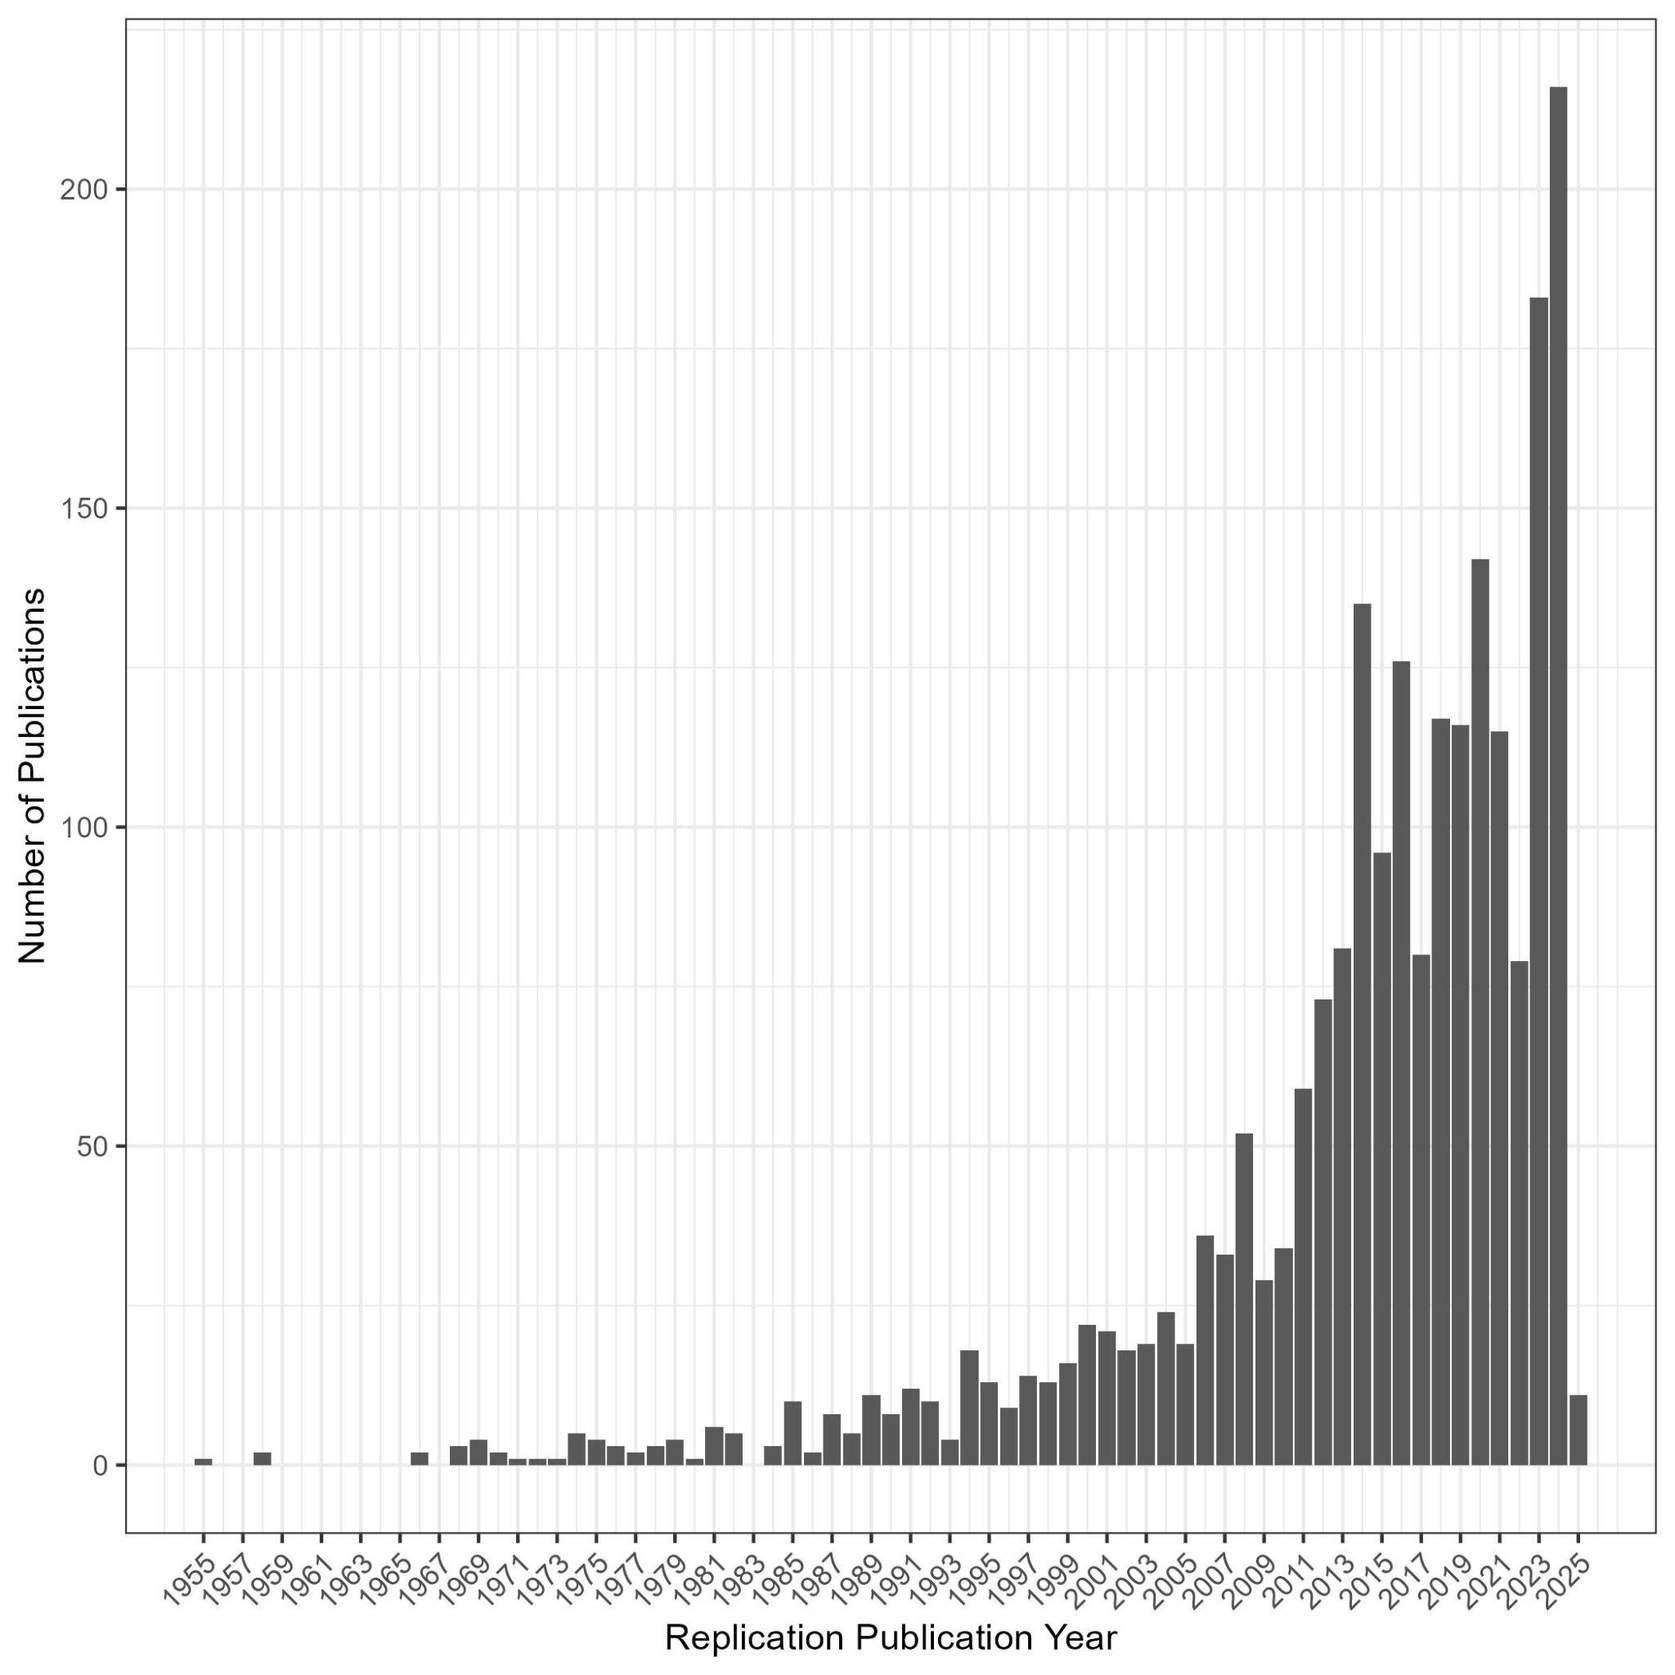
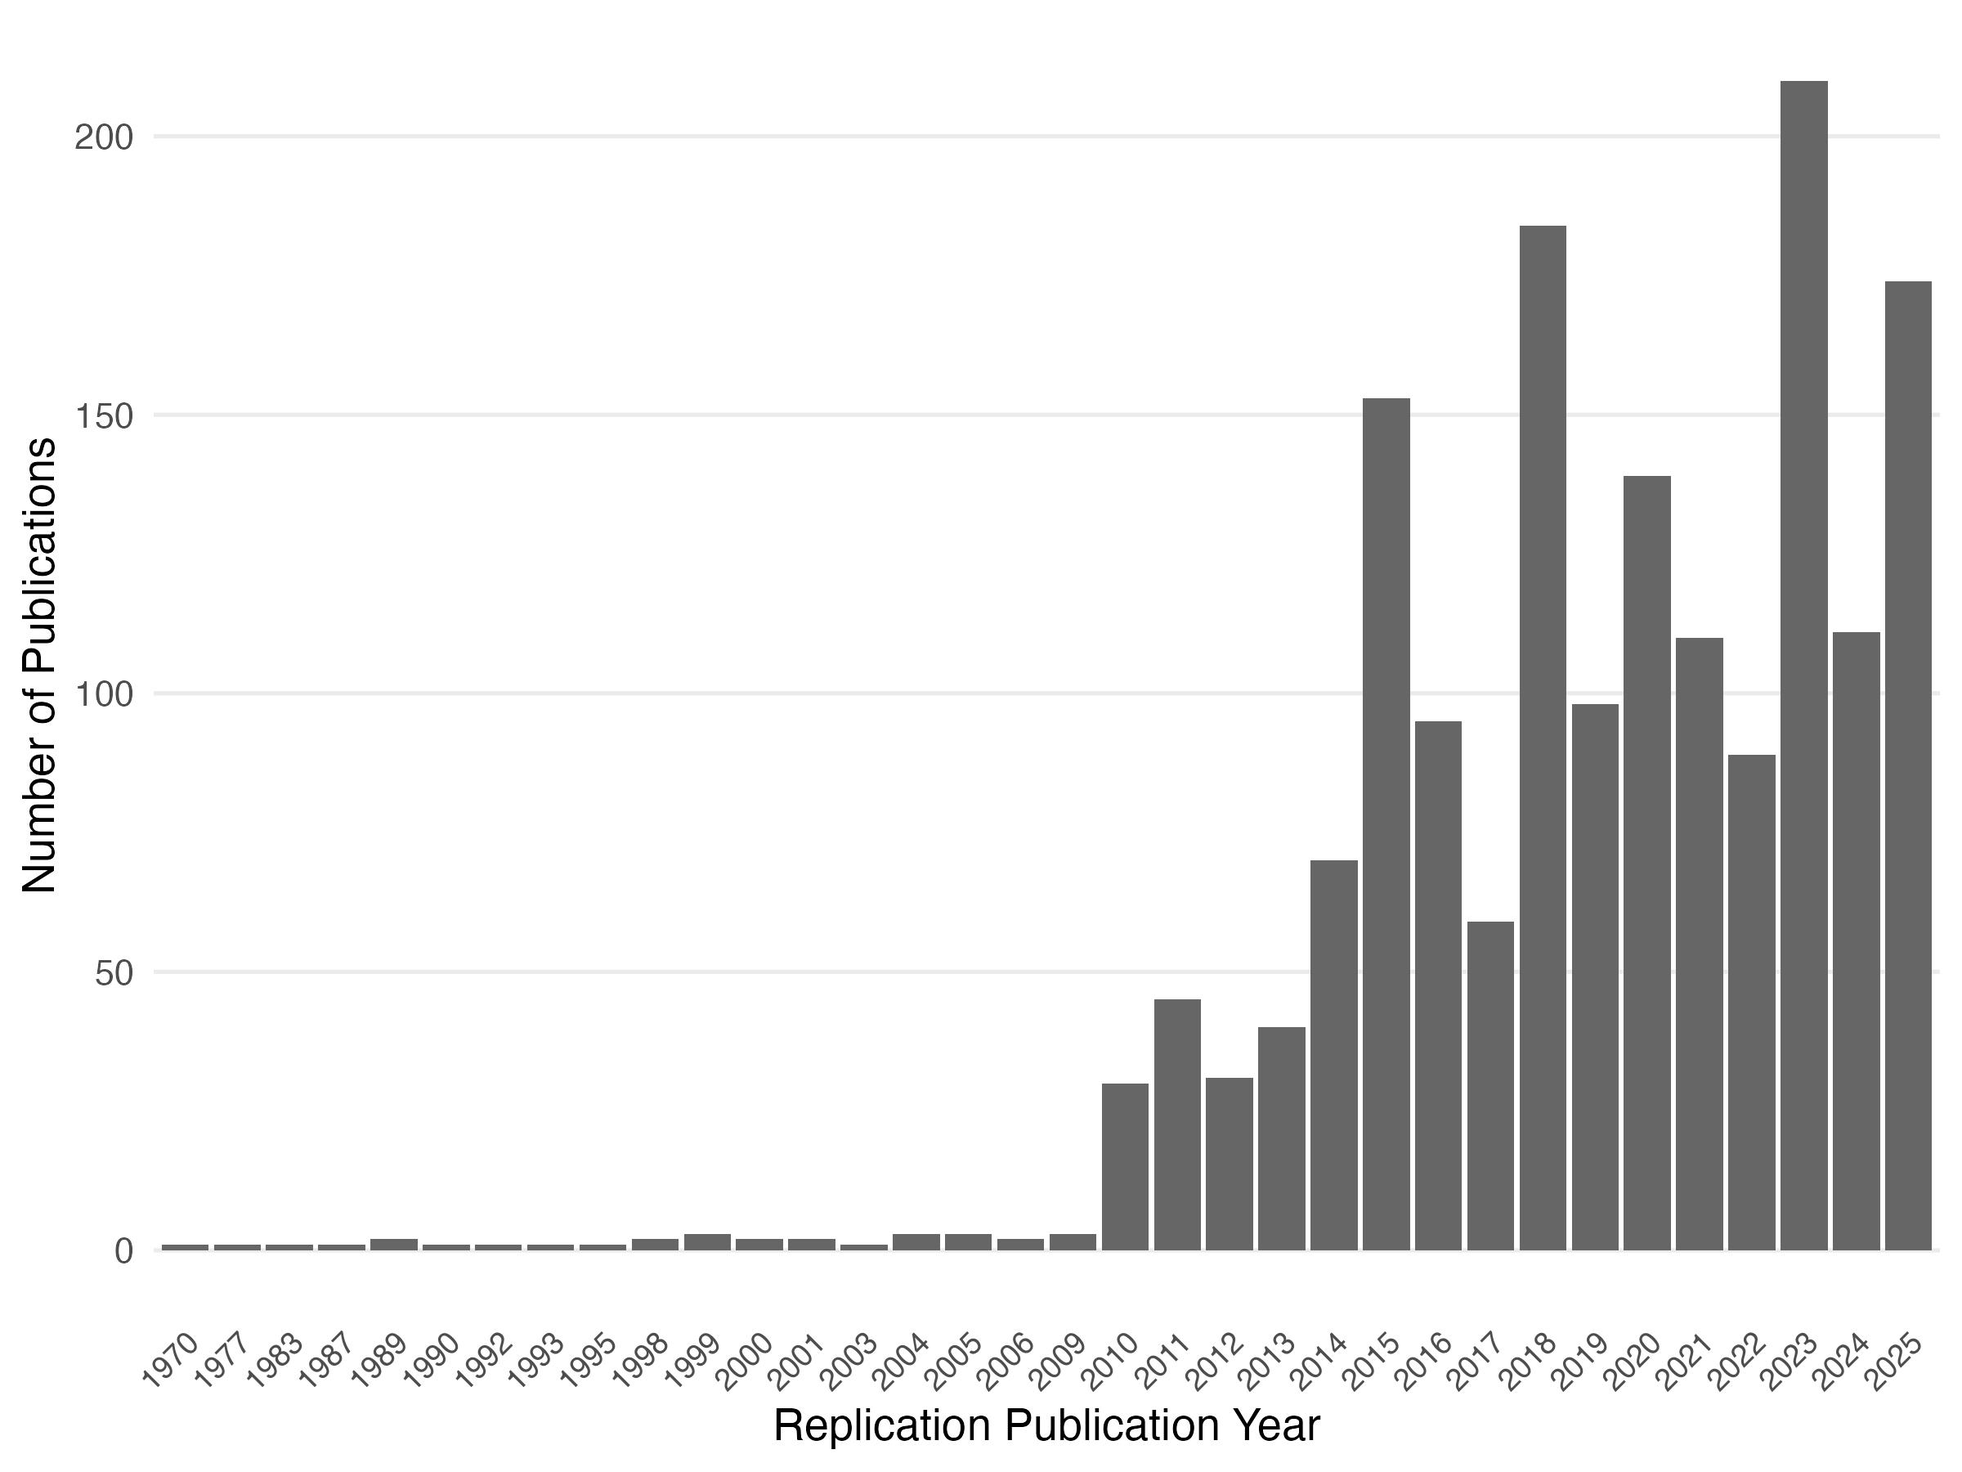
initial metaror changes

diff --git a/metaror_todo.md b/metaror_todo.md
@@ -1,0 +1,147 @@
+# MetaROR Review - Todo List
+
+Based on reviews by R1 (Hannah Fraser), R2 (Vittorio Iacovella), R3 (Wolf Vanpaemel).
+
+---
+
+## Cross-Cutting Issues (raised by multiple reviewers)
+
+### Conceptual consistency and alignment across chapters
+- [ ] **Align terminology and typologies across chapters** — Different chapters use inconsistent terms for the same concepts (e.g., "numerical reproduction" vs "computational reproduction", "recreate reproduction" vs "recoding reproduction"). Table 4.1, Figure 4.1, Figure 4.2, Sections 2.3, 2.4, and Chapter 7 all present overlapping but inconsistent typologies of reproduction/replication types and goals. Streamline and reconcile these throughout. (R1, R2, R3)
+- [ ] **Ensure chapters relate to each other more clearly** — Sections feel siloed; add cross-references and ensure consistent framing across chapters written by different contributors. (R1, R2, R3)
+- [ ] **Link back to deductive vs inductive framework** — The deductive/inductive perspective on replication success (Section 2) is praised but underutilised. Connect it to: Section 6.3 (Changes in Methods), Section 7.2 (Interpreting Divergent Results), Figure 2.1, and the discussion of hidden moderators. (R1, R3)
+- [ ] **Clarify the target audience** — Is the handbook for researchers new to empirical research generally, or specifically for those new to replication/reproduction? This affects depth and scope of many sections. (R2, R3)
+- [ ] **Add constraints on generality discussion** — Discuss Simons et al. (2017) CoG framework more substantively, linking to WEIRD sampling issues and contextual sensitivity (Section 2.3). Currently only briefly mentioned in Section 6.3. (R1, R2)
+- [ ] **Expand discussion of preregistration consistently** — Clarify whether referring to preregistering the reproduction/replication itself or targeting preregistered studies. Treat deviations from preregistration consistently across Chapters 5 and 6. (R1, R2)
+- [ ] **Expand use of real-life examples** — The handbook is strongest when discussing actual replication cases. Add more practical, worked examples throughout. (R1, R3)
+- [ ] **Use "this handbook" consistently** — Currently alternates between "paper", "article", and "handbook", which may confuse readers. (R2)
+
+---
+
+## Easy Fixes
+
+### Chapter 1: Background
+- [x] Replace "repeatedly testing" with "retesting" or "testing" in the Summary. (R1)
+- [x] Rephrase the claim about "majority of scientific progress" resting on replication — suggest something like "without attempting to reproduce or replicate, it's unclear whether conditions of research are being met." (R1)
+- [x] Add a clause to "Cumulative science without repetition is costly" — e.g., about research waste from building on unreliable findings. (R1)
+- [x] Figure 1.1: Remove the partial 2025 bar (uninformative). (R1) (updated instead)
+- [x] Figure 1.1: Clarify whether "replication" in the figure includes both reproductions and replications. (R2)
+- [ ] Figure 1.1: Consider adding a vertical dashed line around 2010 to mark the replication crisis. (R2)
+- [x] Clarify "developed actively" phrasing — currently ambiguous whether this is positive or negative. (R1)
+- [x] Check the 1% replication rate claim (citing Perry et al., 2022) — R2 notes the actual rate appears at least 10x lower in the reference. (R2) **Fact-checked: Perry et al. report overall yearly rates of ~0.2%, with some individual journals reaching 1-2%. Changed to "well below 1%".**
+- [ ] Improve the replication rate discussion - currently based on 1 very narrow paper (education) (Lukas)
+
+
+### Chapter 2: Understanding Replications and Reproductions
+- [x] Move the paragraph starting "Reproduction and replication should always be considered together..." later — fully introduce the concepts before making implementation suggestions. (R1)
+- [ ] Table 2.1: Reconsider "possible interpretations" — replace with a quick worked example showing what findings would look like for each row. (R1)
+- [ ] Table 2.1: Reconsider introducing "generalizable" here, as the term is debated. Perhaps just reference Section 4 instead. (R2)
+- [x] Section 2.3: Add linking sentence after Huffmeier et al. typology, e.g., "determining what constitutes closeness or similarity is context-specific and relies on detailed understanding of the original study." (R1)
+- [x] Figure 2.1: Add a note about contextual variables from a deductive perspective (not all variables are relevant for a given study depending on underlying theory). (R1)
+- [ ] Consider adding many-analyst study findings alongside the Landy et al. discussion. (R1)
+
+### Chapter 3: Choosing the Target Study
+- [x] Add a brief description of what forensic meta-science tests detect after mentioning Heathers (2025). (R1)
+- [x] Expand the paragraph about studies replicated only by original authors — currently squashes several interesting points into one paragraph; give each its own paragraph. (R1)
+- [ ] Move the generalizability/boundary conditions paragraph out of the Uncertainty section — it disrupts the flow. (R1)
+- [x] Section 3.4: Add more information about what types of studies are more likely to be chosen for replication. (R1)
+- [ ] Clarify whether "Uncertainty > Theoretical contribution" and "Uncertainty > Availability of reproductions and replications" are intended as enumerated subsections or parts of the Uncertainty discussion. (R2)
+- [ ] Add a brief mention of "replication packages" with forward reference to Section 5.1. (R2)
+- [ ] Reconsider whether we want to cite Soto as evidence of high replicability of a field ... problematic as it at most tests a small subset of field (Lukas)
+
+### Chapter 4: Planning and Conducting
+- [ ] Table 4.1: Consider moving to Chapter 2 (or combining with Table 2.1). (R1)
+- [ ] Table 4.1: Shorten descriptions in the "goals" column (e.g., remove "fear of the"). (R1)
+- [ ] Figure 4.2: Simplify — currently too cluttered. Consider rotating to vertical, adding a vertical axis for "repetition complexity", and restructuring numbered boxes. (R2)
+
+### Chapter 5: Execution of Reproductions
+- [x] Section 5.4 (Preregistration): Remove or substantially revise the paragraph about fraudulent preregistration claims — it's confused and not relevant to whether one should preregister. (R1)
+- [ ] Section 5.4: Consider suggesting development of reproduction protocol on randomly re-ordered data (preserves distributional info without directional results). (R1)
+- [x] Section 5.5 (Deviations): Remove the sentence about journal requirements (e.g., JOPD, Journal of Robustness Reports) — it doesn't relate to deviations. (R1)
+- [ ] Section 5.2: Give the "Reproduction before Replication" subsection about robustness reproductions its own paragraph. (R1)
+- [ ] Add discussion of what "the same" means (or reference where it's discussed later). (R1)
+
+### Chapter 6: Execution of Replications
+- [x] Section 6.1: Be cautious about stating "A rejection due to the results is not possible" for Registered Reports — policies vary by journal, and avoid framing RRs solely as publication security. (R2)
+- [ ] Section 6.2.1 (Small Telescope): Rewrite explanation for clarity — currently hard to follow and the "rule of thumb" from Simonsohn 2015 feels insufficiently explained. (R1)
+- [ ] Section 6.2.1: Link Small Telescope approach to the Open Science Collaboration (2015) reproducibility study. (R2)
+- [ ] Section 6.3: Tie changes in methods back to deductive/inductive reasoning and underlying theory. (R1)
+- [ ] Section 6.4 (Piloting): Rewrite to better link the two paragraphs. (R1)
+- [x] Section 6.4.1 (Collaborating with Original Authors): Reduce examples — keep only the most interesting one and cite the rest. (R1)
+- [ ] Section 6.1: Review for replication-specific content — much of it is general preregistration advice that may already be familiar to the target audience. (R3)
+- [x] Deviations from preregistration: Give them their own section header in Chapter 6 (as done in Chapter 5) for consistency. (R1)
+
+### Chapter 7: Discussion
+- [ ] Table 7.1: Unpack and explain more thoroughly — too much information presented without sufficient context. (R1)
+- [ ] Section 7.2: Link interpretation of divergent results explicitly to operationalisation of replication success and to deductive/inductive framework. (R1)
+- [ ] Section 7.2.1 (Hidden Moderators): Describe more clearly how hidden moderators lead to bias — bias towards what kind of results or study selection? (R1)
+- [x] Figure 7.1: Link into more parts of the text (currently underutilised). (R1, R2) **Added cross-reference to Section 2.3 in caption.**
+- [x] Figure 7.1: Expand explanation with reference to concepts from Section 2.1 (e.g., generalizability). (R2) **Added cross-reference to types of replication section.**
+- [x] Table 7.1: Fix rightmost column heading — change "Reproducibility" to "Repetition" if table is not split. (R3) **Renamed column in R code; changed caption to "adapted from" Heyard et al.**
+
+### Chapter 8: Communicating and Publishing
+- [ ] Separate traditional publishing from other forms of communication. (R1)
+- [ ] Mention that researchers can do either or both. (R1)
+
+### Chapter 9: Field-Specific Replication Challenges (MRI)
+- [ ] Mention Jeanette Mumford's work, including the 2012 power calculation guide and YouTube channel "mumfordbrainstats". (R2)
+- [ ] Add at least one sentence on Eklund et al. (2016) cluster failure paper and its field-wide impact. (R2)
+- [ ] Add references to Durnez et al. (2016) on cluster-based power and Ellis et al. (2020) on simulation-based approaches. (R2)
+- [x] Expand comment on Botvinik-Nezer et al. (2020) to integrate "70 teams, 70 pipelines" finding with automated preprocessing pipelines (mentioned in 9.0.5). (R2)
+
+### Chapter 10: Checklist
+- [ ] Reconsider checklist format — items are high-level recommendations rather than concrete checklist items. (R1)
+
+### Formatting / Rendering Issues
+- [x] Fix Table of Contents rendering — Section 5 looks incomplete; Sections 5.1-5.3 missing from PDF. (R2) **Verified: ToC is complete in current build; may have been an earlier rendering issue.**
+- [x] Fix Section III.9 numbering — includes a "0" (e.g., 9.0.3) which is inconsistent with rest of text. (R2) **Fixed: changed ### to ## in field_specific_mri.qmd. Now renders as 9.1, 9.2, etc.**
+- [ ] Add timestamps to all webpage references (date last accessed). (R2)
+- [ ] Add introductory lines at the beginning of each section to orient casual readers. (R2)
+
+---
+
+## Larger Recommended Refactors
+
+### Structural reorganisation
+- [ ] **Merge Chapter 1 into Chapter 2** — Chapter 1 is only ~1 page; integrate as a section within Chapter 2 unless substantially expanded. (R3)
+- [ ] **Reorder Sections 2.3 and 2.4** — Put Reproduction before Replication to match chronological order and book title. Also rename Chapter 2 title to "Reproductions and Replications". (R3)
+- [x] **Rename Part II** to explicitly include "Reproduction" (currently only mentions Replication). (R3)
+- [ ] **Integrate Section 2.3 (Types of replication) into Chapter 4** to avoid duplication and reduce the inconsistency problem. Similarly integrate Section 2.4 with Chapter 4. (R3)
+- [ ] **Move or restructure Sections 5.2 (Contacting Authors) and 5.3 (Identification of Claims)** — These are relevant to replication too, not just reproduction. Move to Chapters 3/4 or add cross-references in Chapter 6. Similarly, Section 7.4 (Comments from Original Authors) may be missed by reproduction-focused readers. (R3)
+- [ ] **Consider merging Chapter 7 into Chapter 6** — Determining replication success is integral to executing replications. (R3)
+- [ ] **Split Table 7.1** — The part addressing reproduction success should be in a separate table within the reproduction chapter. (R3)
+- [ ] **Move Chapter 8 content into Chapters 5 and 6** — Create new sections 5.8 (Reporting a Reproduction Study) and 6.7 (Reporting a Replication Study). Move the long table to an Appendix. (R3)
+- [ ] **Move checklist (Chapter 10) to Appendix** — A single 2-page chapter doesn't warrant its own Part (Part IV). Discuss the checklist in a conclusion section instead. (R3)
+- [ ] **Section 4.1 (Post Publication Conversations)** — Consider moving to Chapter 3 (selecting studies for replication) rather than Chapter 4. (R1)
+- [ ] **Section 3.4 (Researcher Bias)** — Reconsider its fit within Chapter 3; most content doesn't clearly relate to choosing a target study. (R3)
+- [ ] **Section 5.5 and 5.6** — Merge Deviations and Analysis sections, as deviations typically arise during analysis. (R3)
+- [ ] **Section 6.5 (Adversarial Collaborations)** — Either expand and relate to replication studies or remove entirely. (R1)
+
+### Content gaps to address
+- [ ] **Balance reproduction coverage** — Reproduction gets far less space than replication (essentially two sentences in Section 2). Move Table 4.1 classification earlier and present reproduction subcategories (numerical vs robustness) more prominently. (R2)
+- [ ] **Add parallel sections for reproduction in Chapter 7** — Currently missing: Defining Reproduction Success, Interpreting Reproduction Failures. (R3)
+- [ ] **Expand data integrity checking** — Even without raw data, partial checks are possible beyond statcheck/papercheck. This "reproduction light" approach deserves more than five lines. Reference Heathers (2025) in this context too, not just for study selection. (R3)
+- [ ] **Add hands-on practical guidance** — Address practical decisions like the "choice vs strategy" problem (e.g., should a replicator include the same covariates or apply the same selection rule?). Explain how to actually use tools like Altmetric rather than just name-dropping them. (R3)
+- [ ] **Add discussion of data standardisation / FAIR principles** — FAIR-ification addresses both practical and scientific implications of data planning, acquisition, and dissemination. It also solves problems related to human-in-the-loop issues (Section 5). (R2)
+- [ ] **Add discussion of incentives and career implications** — Current treatment (Koole & Lakens, 2012, in one table cell) is insufficient. Expand on career risks and benefits of replication work, especially for ECRs. (R2)
+- [ ] **Balance the MRI deep dive** — Section 9 goes much deeper than other topics. Either pare it back to match the rest of the book, or add comparable depth for another field. Also add a section on identifying field-specific challenges for any discipline. (R1)
+- [ ] **Discuss what "the same" means in replication** — The ambiguity of "doing the same" (same choices vs same decision strategy) is a central practical dilemma. Address the "choice vs strategy" problem explicitly. (R3)
+- [ ] **Add "checking adherence to preregistration" discussion** — Currently placed in reproduction (p. 27) but unclear how it fits there. Move or justify. (R3)
+- [ ] **Explore counter-narratives for mixed results** — When original paper reports a mix of significant and non-significant results across studies, discuss how to interpret this (integrous reporting? context dependence? same direction but varying significance vs opposing directions?). (R1)
+
+### Scope clarification
+- [ ] **Consider limiting scope statement** — If limited to social science disciplines, include that in the title. (R1)
+
+---
+
+## Points for Discussion
+
+These are items where reviewer opinions may conflict or where the right approach requires authorial judgement:
+
+- [ ] **Table 2.1 interpretation vs examples** — R1 disagrees with the "possible interpretations" (e.g., direct replication as generalizability test) and suggests replacing with worked examples. R2 finds the sequentiality concept commendable but questions introducing "generalizable." Discuss what this table should convey.
+- [ ] **Depth vs breadth trade-off** — R3 wants more hands-on guidance and practical detail; R1 wants the MRI section paired back. How deep should the handbook go on any single topic?
+- [ ] **Chapter 7 restructuring** — R1 suggests breaking Table 7.1 into subsections by data/analysis type (7.1-7.5). R3 suggests merging Chapter 7 into Chapter 6. These are different directions — decide which serves readers better.
+- [ ] **Preregistration section in Chapter 5** — R1 says remove the confused paragraph about fraudulent preregistration; R2 appreciates the mention of preregistration as open science "in action." Decide how much space preregistration deserves and what angle to take.
+- [ ] **Adversarial collaborations (Section 6.5)** — R1 says expand or remove. Decide whether this topic is worth covering in the handbook.
+- [ ] **Multiverse analysis** — Only mentioned in Table 4.1 but not discussed in the text. Decide whether to add a substantive discussion or remove from the table. (R3)
+- [ ] **Counter-factual divergent results explanations** — Figure 4.2 and Section 7.2 both discuss explanations for failed replications but very differently. Decide on a unified treatment. (R3)
